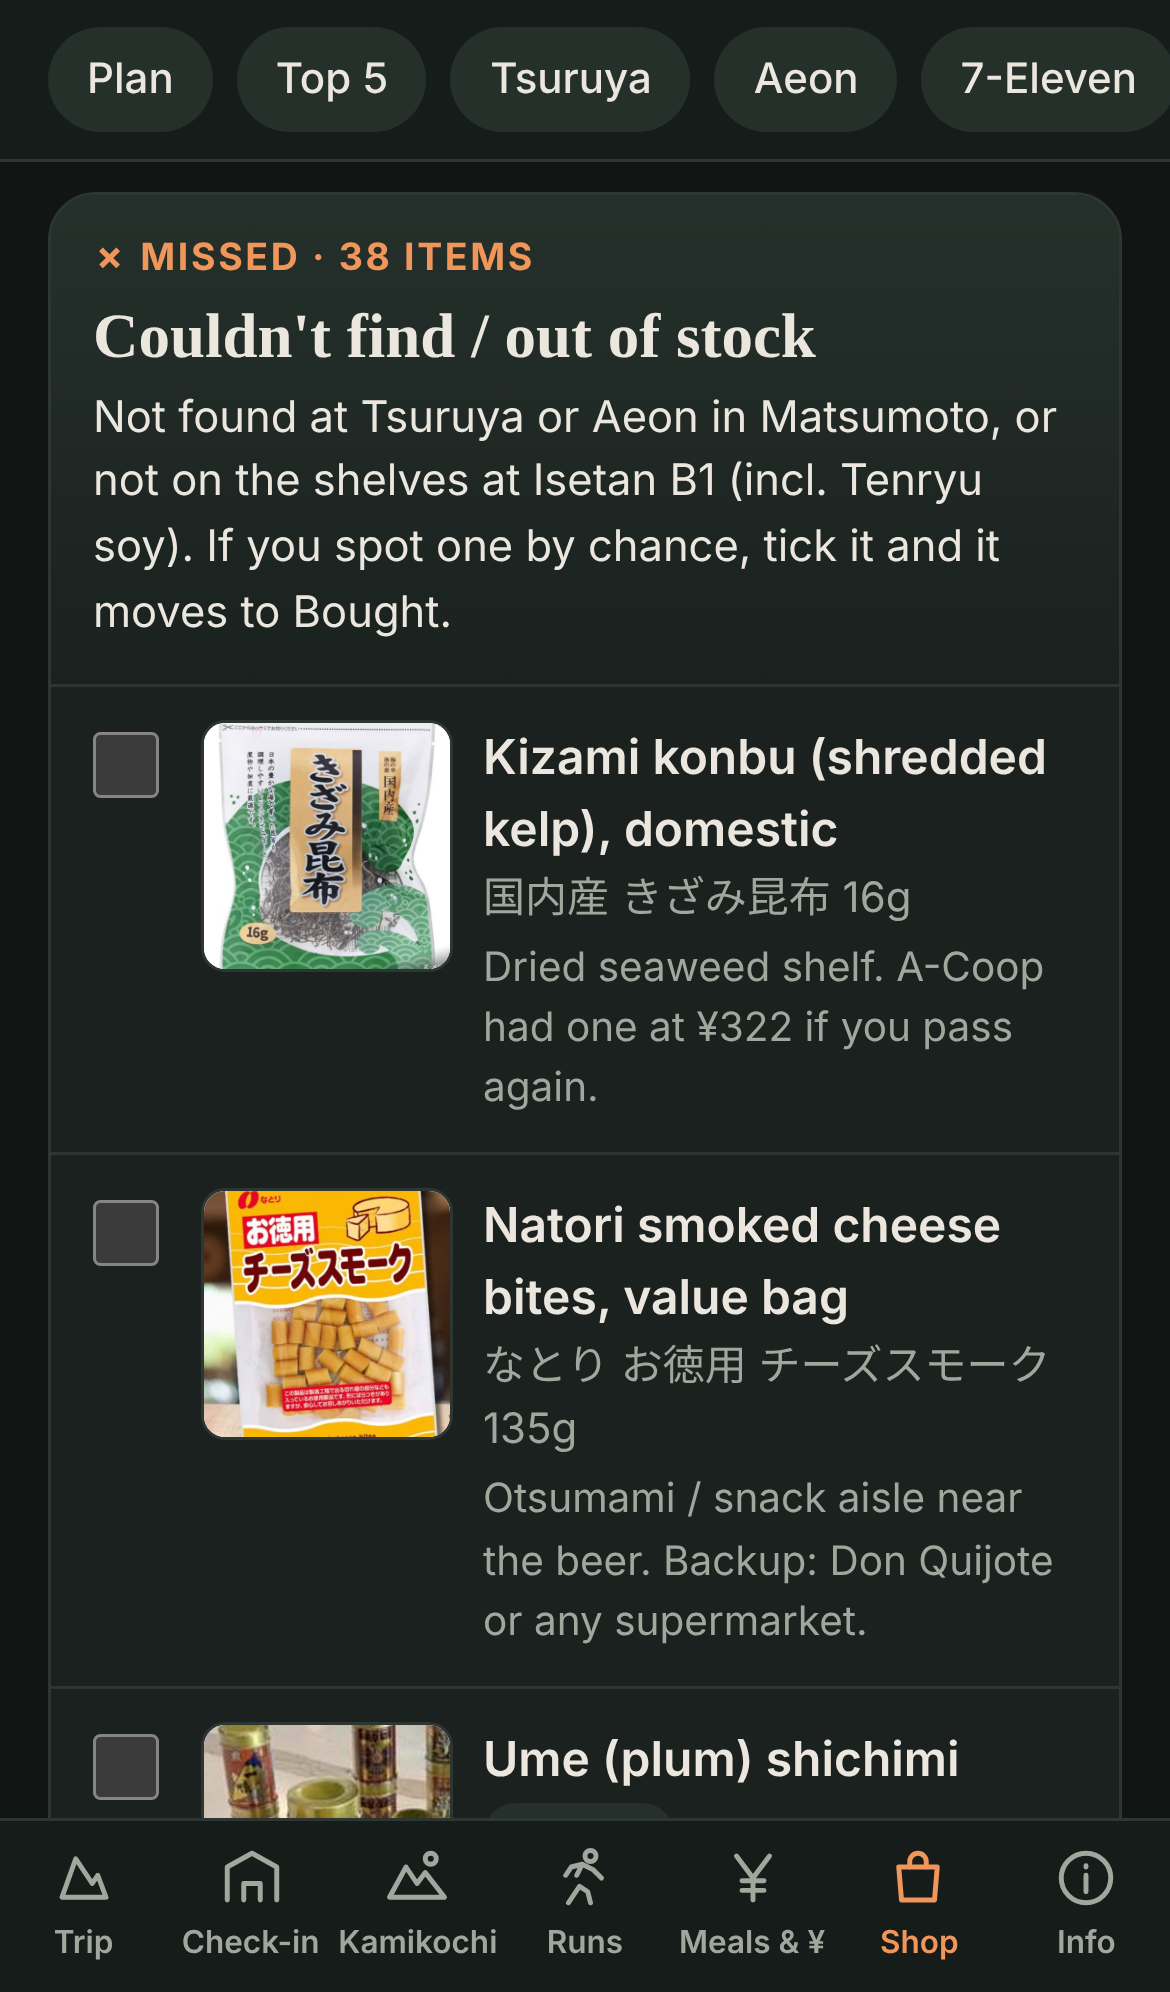
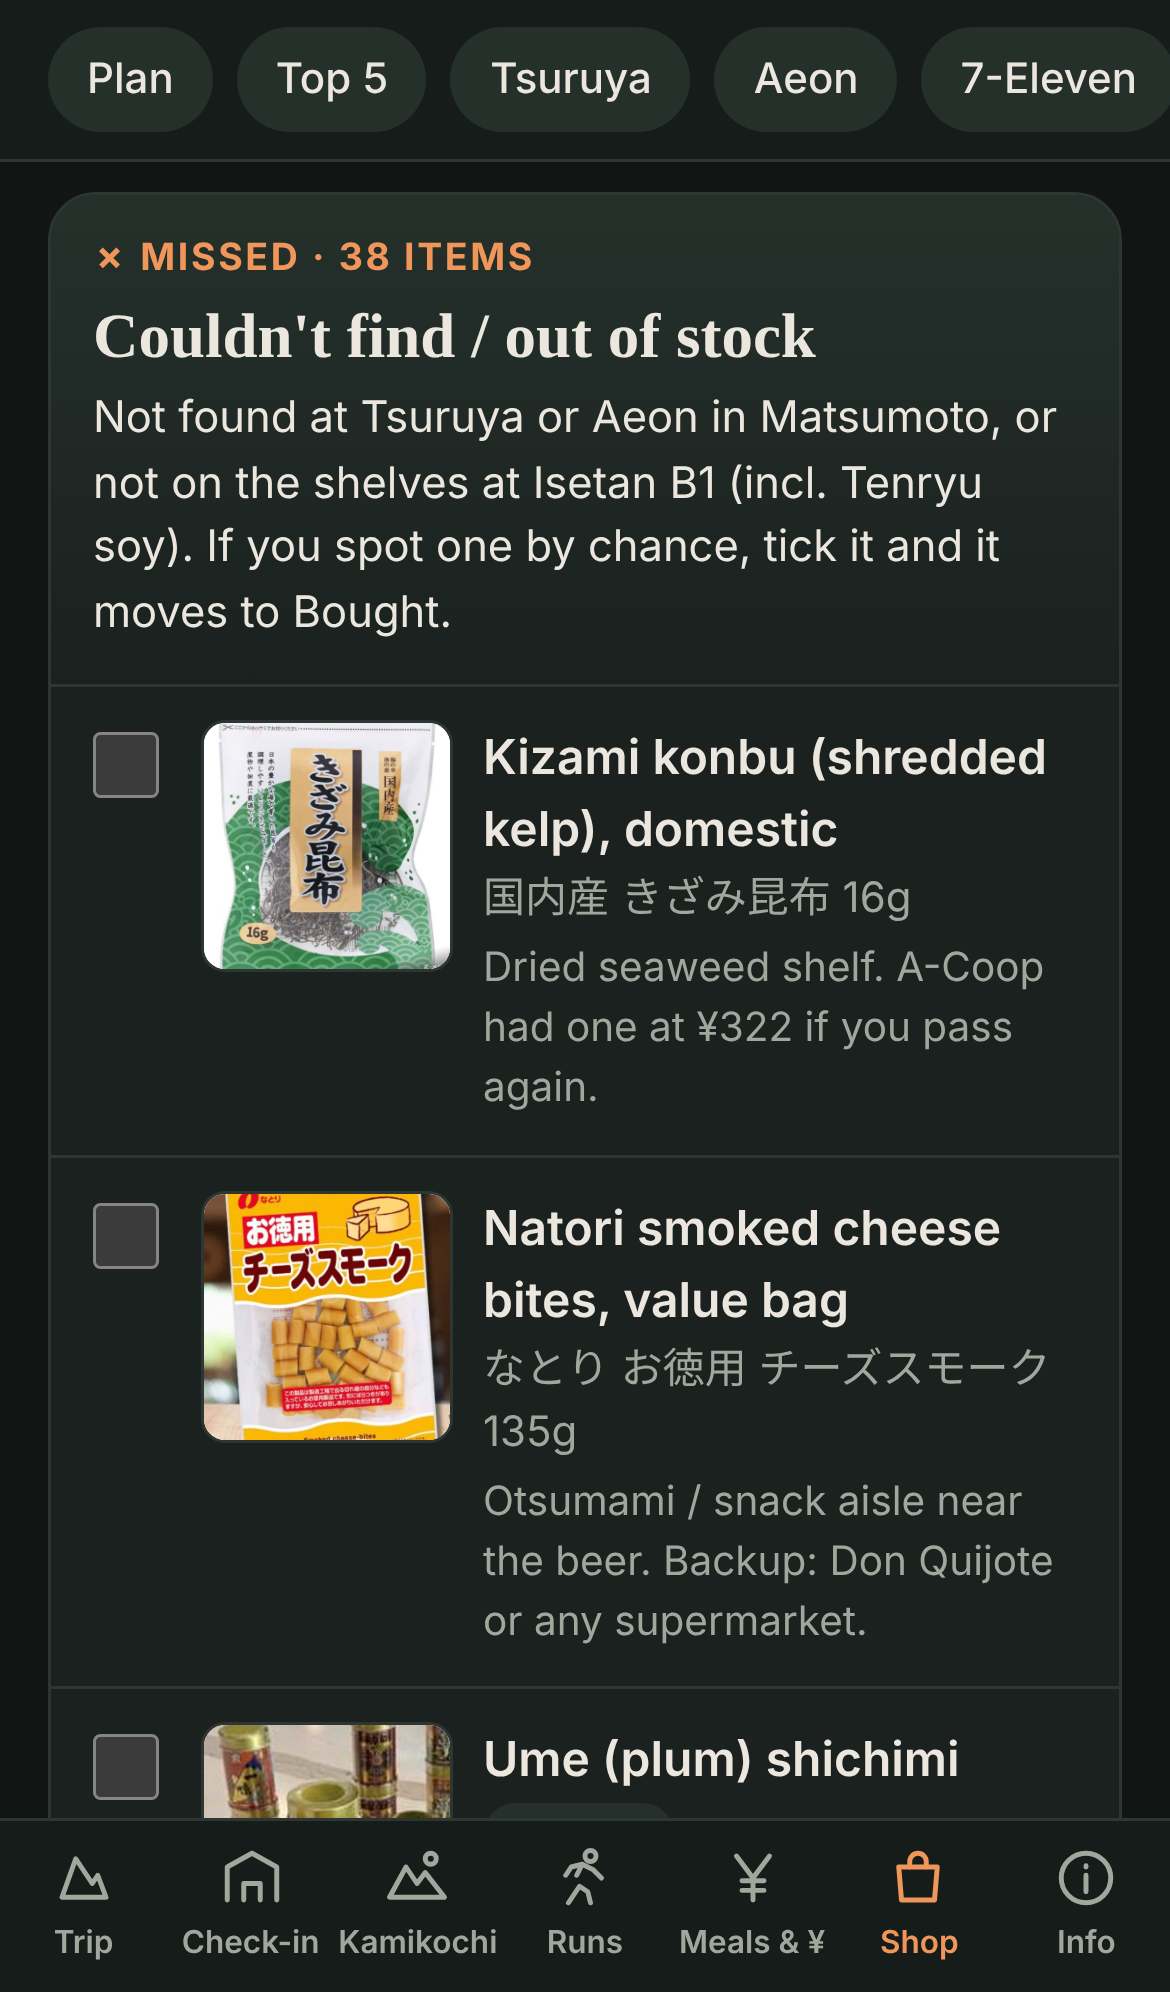
Shop tab: Funbaruzu (Mofusand), PATAP bookmark, Uni-ball pens bought
Claude-Session: https://claude.ai/code/session_01Y2WQRBbonUHiH2uMP66m3v

diff --git a/index.html b/index.html
@@ -799,8 +799,8 @@ svg text{font-family:var(--sans)}
     <tr><td class="n">Sat 14<br>10:00</td><td><span class="pill ok">Done</span> <a href="#sh-isetan"><b>Isetan B1</b></a><br><small>Rausu, Hidaka, Rishiri konbu, Ninben, chasen, Tenryu; from her reels: dashi, salts, soy sauces, beef tallow</small></td></tr>
     <tr><td class="n">Sat 14<br>10:50</td><td><span class="pill ok">Done</span> <a href="#sh-bic"><b>Bic Camera East Exit</b></a><br><small>ReFa shower head (bring passport for tax refund)</small></td></tr>
     <tr><td class="n">Sat 14<br>11:20</td><td><b>MUJI Ginza</b> (~16:50, before Yoroniku)<br><small>Bottle drying stick ¥990</small></td></tr>
-    <tr><td class="n">Sat 14<br>~14:00</td><td><a href="#sh-yodo"><b>Yodobashi West</b></a><br><small>PATAP bookmark (friend)</small></td></tr>
-    <tr><td class="n">Sat 14<br>11:45</td><td><a href="#sh-taka"><b>Takashimaya</b></a><br><small>Wpc. umbrella at Hands (top 5); Kinokuniya Rishiri konbu, Funbaruzu</small></td></tr>
+    <tr><td class="n">Sat 14<br>~14:00</td><td><span class="pill ok">Done</span> <a href="#sh-yodo"><b>Yodobashi West</b></a><br><small>PATAP bookmark (friend)</small></td></tr>
+    <tr><td class="n">Sat 14<br>11:45</td><td><span class="pill ok">Done</span> <a href="#sh-taka"><b>Takashimaya</b></a><br><small>Wpc. umbrella at Hands (top 5); Kinokuniya Rishiri konbu, Funbaruzu</small></td></tr>
     <tr><td class="n">Sat 14<br>12:30</td><td><a href="#sh-daiso"><b>Daiso</b></a> + 3COINS extras<br><small>UV face mask, Kaki no Tane Thunder, if there's room</small></td></tr>
     <tr><td class="n">Sun 15<br>~14:00</td><td><b>Narita T1 South, after passport control</b><br><small>Airport furikake + ROYCE' (top 5)</small></td></tr>
   </table></div>
@@ -1080,15 +1080,15 @@ svg text{font-family:var(--sans)}
   <div class="items"><label class="it"><input type="checkbox" data-s="rishiri-kino">
   <button class="it-img" type="button"><img src="shop/rishiri-kino.jpg" alt="Kinokuniya natural Rishiri konbu" loading="lazy"></button>
   <span class="it-t"><b>Kinokuniya natural Rishiri konbu</b><span class="jp">紀ノ国屋 天然利尻昆布</span><small>Green Kinokuniya label. Backup: Kinokuniya entrée in Lumine 2, 1F.</small></span>
-</label><label class="it"><input type="checkbox" data-s="funbaruzu">
+</label><label class="it"><input type="checkbox" data-s="funbaruzu" data-def="1">
   <button class="it-img" type="button"><img src="shop/funbaruzu.jpg" alt="Funbaruzu Cinnamoroll posture pal" loading="lazy"></button>
-  <span class="it-t"><b>Funbaruzu Cinnamoroll posture pal</b><span class="jp">ふんばるず シナモロール</span><small>Hands character goods. If none, try Loft, or Kiddy Land Harajuku (4 min by Yamanote).</small></span>
+  <span class="it-t"><b>Funbaruzu Cinnamoroll posture pal</b><span class="jp">ふんばるず シナモロール</span><small>Cinnamoroll sold out at Hands; got the Mofusand version instead.</small></span>
 </label></div>
 </section><section id="sh-yodo" class="stop">
   <div class="stop-h"><div class="when">Sat 14 Nov · ~14:00</div><h3>Yodobashi Camera Shinjuku West Main Store</h3><p class="how">West exit, ~10 min walk from Lumine / Takashimaya. Open till 22:00. Stationery corner.</p></div>
-  <div class="items"><label class="it"><input type="checkbox" data-s="patap">
+  <div class="items"><label class="it"><input type="checkbox" data-s="patap" data-def="1">
   <button class="it-img" type="button"><img src="shop/patap.jpg" alt="Nakabayashi PATAP bookmark" loading="lazy"></button>
-  <span class="it-t"><b>Nakabayashi PATAP flip-clip bookmark (blue)</b> <span class="pill">For your friend</span><span class="jp">ナカバヤシ パタップ しおり</span><small>Silicone flap + steel clip. S$14 in Singapore, a few hundred yen here. Ask: パタップのしおりはありますか？</small></span>
+  <span class="it-t"><b>Nakabayashi PATAP flip-clip bookmark (blue)</b> <span class="pill">For your friend</span><span class="jp">ナカバヤシ パタップ しおり</span><small>Bought for your friend.</small></span>
 </label></div>
 </section><section id="sh-3coins" class="stop ">
   <div class="stop-h"><div class="when">If there's room</div><h3>3COINS, Shinjuku</h3><p class="how">Several in the station buildings; search "3COINS 新宿" in Maps.</p></div>
@@ -1135,7 +1135,10 @@ svg text{font-family:var(--sans)}
 </section><section id="sh-acoop" class="stop done">
   <div class="stop-h"><div class="when">✓ Bought · <span id="boughtN">0</span> items</div><h3>Already in the bag</h3><p class="how">Everything you tick moves down here automatically. Untick to send it back to its stop.</p></div>
   
-  <div class="items" id="boughtList"><label class="it"><input type="checkbox" data-s="momoya" data-def="1">
+  <div class="items" id="boughtList"><label class="it"><input type="checkbox" data-s="uniball" data-def="1">
+  <div class="it-img noimg">No photo</div>
+  <span class="it-t"><b>Uni-ball One UMN-S-38 pens</b> <span class="pill">Extra</span><span class="jp">ユニボール UMN-S-38</span><small>Bonus buy, Sat 14 Nov.</small></span>
+</label><label class="it"><input type="checkbox" data-s="momoya" data-def="1">
   <button class="it-img" type="button"><img src="shop/momoya.jpg" alt="Momoya garlic in oil, 230g" loading="lazy"></button>
   <span class="it-t"><b>Momoya garlic in oil, 230g</b><span class="jp">桃屋 きざみにんにく お徳用</span><small>¥582. Glass: wrap in clothes, keep upright.</small></span>
 </label><label class="it"><input type="checkbox" data-s="rokusuke" data-def="1">
